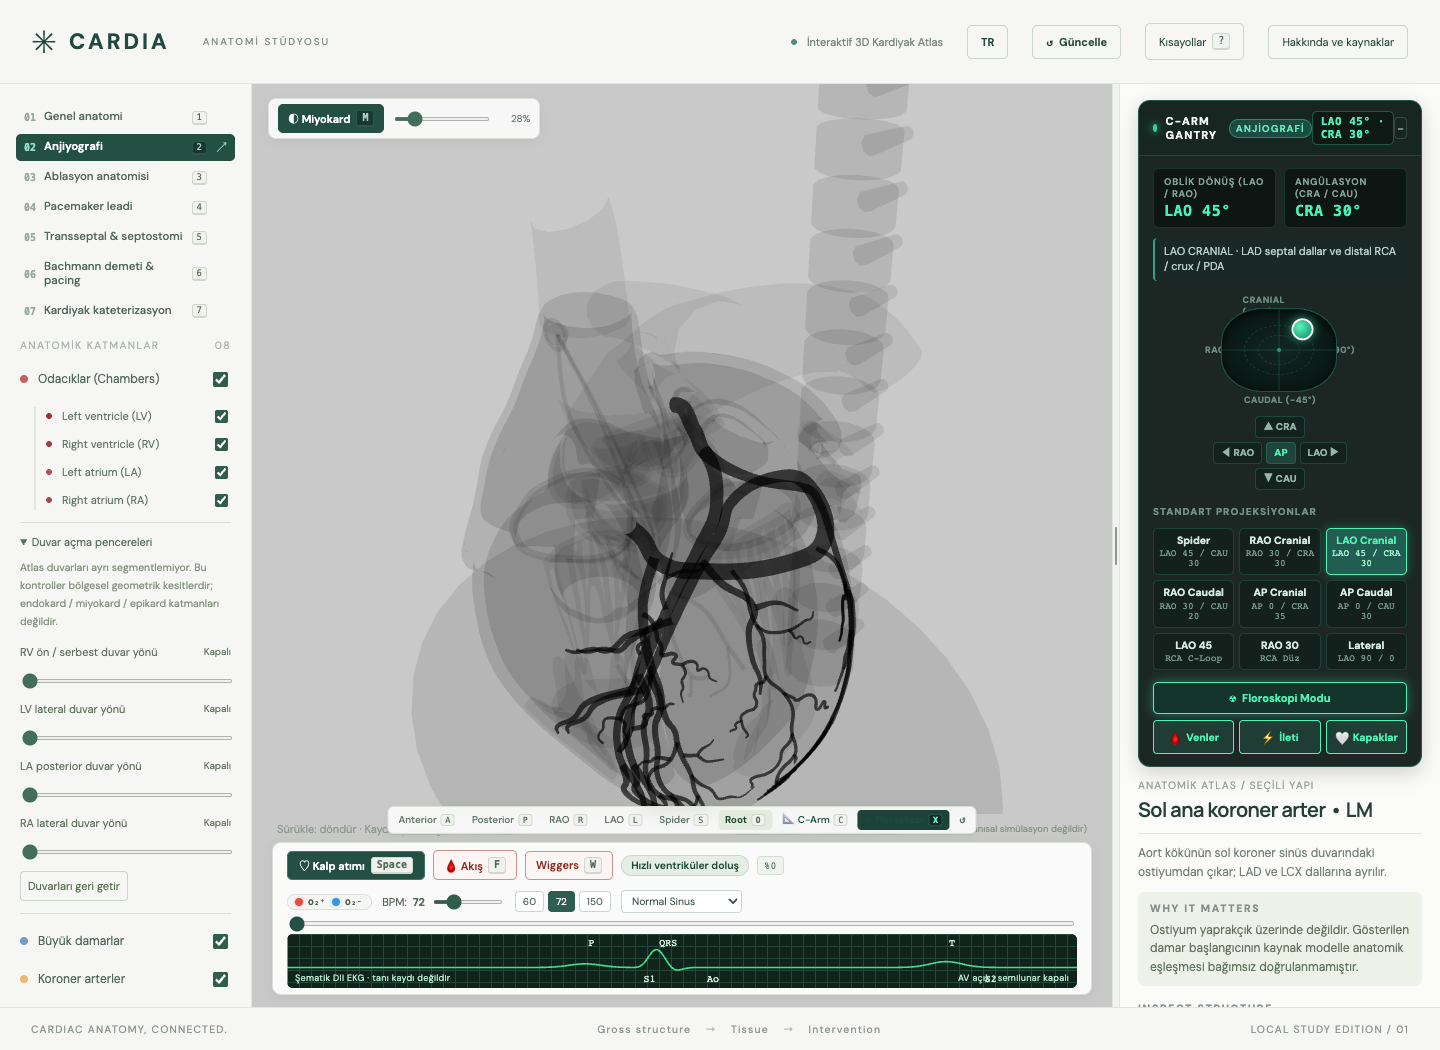
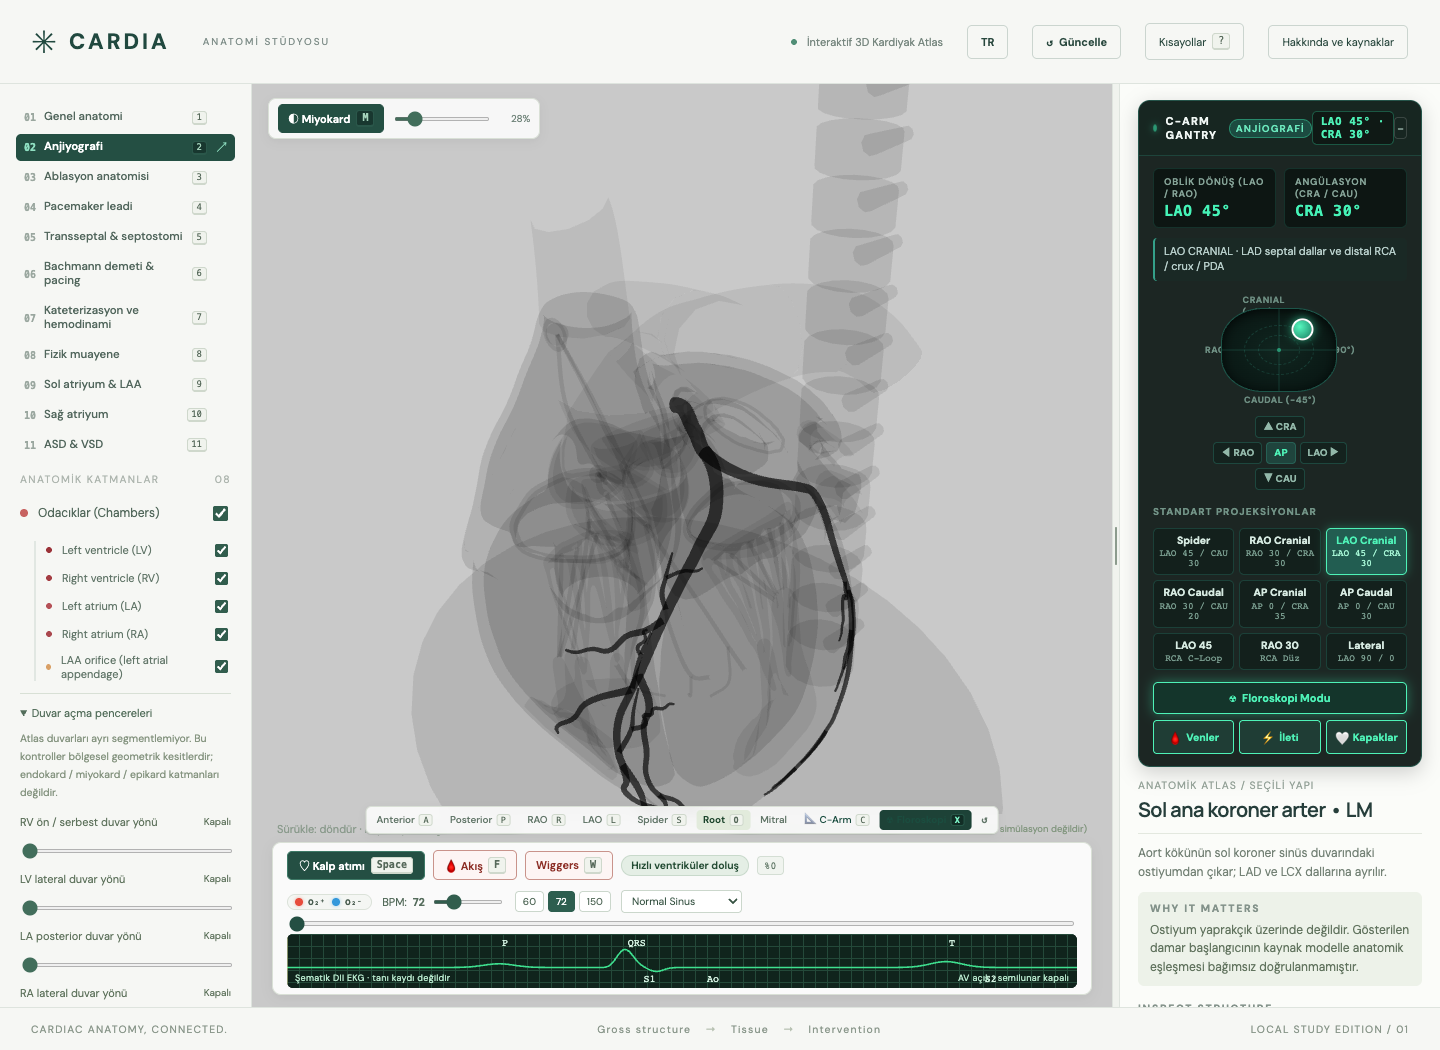
fix: measure the coronary sinus ostium on the paraseptal RA wall for the Koch triangle
The atlas coronary sinus ends in the AV groove on the tricuspid hinge, so the
Koch base sat on the annulus with a zero-width septal isthmus. Add
coronarySinusOstium (mesh-utils): the RA endocardial point on the atrial side
of the tricuspid plane, one isthmus (~1 cm) from the hinge, nearest the sinus
termination and the interatrial wall at Koch height. The Koch base now runs
hinge, mouth, posterior lip; Todaro rises from the lip; a ring marks the mouth.

- scripts/test-cs-ostium.mjs synthetic-geometry unit test, wired into check/test
- research/KOCH_CS_OSTIUM.md: rule, measured result, RA double-contour note
  (double-walled atlas mesh, not a rendering defect)
- research screenshots refreshed by the browser suite

diff --git a/src/ep-landmarks.js b/src/ep-landmarks.js
@@ -1,5 +1,5 @@
 import * as THREE from 'three';
-import { sharedRim, nearestLoop, inferiorCavalOstium } from './mesh-utils.js';
+import { sharedRim, nearestLoop, inferiorCavalOstium, coronarySinusOstium } from './mesh-utils.js';
 
 /**
  * Procedural 3D Clinical Electrophysiology (EP) Landmarks and Ablation Targets.
@@ -72,10 +72,17 @@ export function createEPLandmarks(helpers) {
     const ivcLoop = nearestLoop(getMeshes('ivc')[0], ra);
     const ivcOs = ivcLoop ? ivcLoop.center.clone()
       : (inferiorCavalOstium(getMeshes('ra')[0]) || new THREE.Vector3(-1.05, -0.93, -0.39));
-    const csLoop = nearestLoop(getMeshes('cs')[0], ra);
-    const csOs = csLoop ? csLoop.center.clone() : (nearEndCentroid(meshVertices('cs'), ra) || new THREE.Vector3(-0.70, -0.41, -0.30));
-
     const tvRim = sharedRim(getMeshes('ra')[0], getMeshes('rv')[0]);
+    // The atlas sinus ends on the tricuspid hinge in the AV groove; the RA
+    // mouth is measured one septal isthmus up the paraseptal wall from it.
+    const csMouth = coronarySinusOstium({
+      raMesh: getMeshes('ra')[0], laMesh: getMeshes('la')[0], csMesh: getMeshes('cs')[0],
+      tvRim, towardVentricle: sourceCenter('rv'), avNode: av
+    });
+    const csLoop = csMouth ? null : nearestLoop(getMeshes('cs')[0], ra);
+    const csOs = csMouth ? csMouth.center.clone()
+      : csLoop ? csLoop.center.clone()
+      : (nearEndCentroid(meshVertices('cs'), ra) || new THREE.Vector3(-0.70, -0.41, -0.30));
     // Inferior tricuspid hinge: rim point nearest the IVC ostium.
     let tvInferior = new THREE.Vector3(-0.75, -0.75, 0.0);
     // Septal tricuspid hinge: rim point nearest the left heart (septal side).
@@ -180,10 +187,10 @@ export function createEPLandmarks(helpers) {
       hingeArc[hingeArc.length - 1] = apexPt.clone();
       baseAnterior = hingeArc[0].clone();
     }
-    // Posterior base corner: CS-ostium rim point farthest from the tricuspid
-    // annulus (the lip the Eustachian ridge / Todaro rises from).
+    // Posterior base corner: the mouth's posterior lip, farthest from the
+    // tricuspid annulus (where the Eustachian ridge / Todaro rises).
     const csRim = csLoop ? csLoop.pts : [csOs.clone()];
-    const basePosterior = csRim.reduce((best, v) => {
+    const basePosterior = csMouth ? csMouth.posteriorLip.clone() : csRim.reduce((best, v) => {
       const d = Math.min(...(tvRim || [septalHinge]).map(r => r.distanceTo(v)));
       return d > best.d ? { v, d } : best;
     }, { v: csOs.clone(), d: -1 }).v.clone();
@@ -203,6 +210,11 @@ export function createEPLandmarks(helpers) {
     kochGroup.add(tag(new THREE.Mesh(new THREE.TubeGeometry(todaroCurve, 32, 0.017, 8, false), matTodaro), 'koch-todaro', 'Tendon of Todaro'));
     kochGroup.add(tag(new THREE.Mesh(new THREE.TubeGeometry(hingeCurve, 40, 0.015, 8, false), matHinge), 'tricuspid-septal', 'Septal tricuspid hinge (Koch side)'));
     kochGroup.add(tag(new THREE.Mesh(new THREE.TubeGeometry(baseCurve, 20, 0.014, 8, false), matBase), 'koch-base', 'CS ostium / inferior isthmus (Koch base)'));
+    // The mouth itself: a ring on the wall, facing the cavity.
+    const csRing = new THREE.Mesh(new THREE.TorusGeometry(csMouth ? csMouth.radius : 0.13, 0.012, 8, 32), matBase);
+    csRing.position.copy(lift(csOs));
+    csRing.quaternion.setFromUnitVectors(new THREE.Vector3(0, 0, 1), ra.clone().sub(csOs).normalize());
+    kochGroup.add(tag(csRing, 'koch-base', 'Coronary sinus ostium (measured)'));
 
     // Translucent triangle fill: fan from the apex over hinge + base + Todaro.
     const outline = [

diff --git a/src/mesh-utils.js b/src/mesh-utils.js
@@ -426,3 +426,51 @@ export function inferiorCavalOstium(raMesh) {
   if (floor.length < 10) return null;
   return centroid(floor).lerp(center, 0.1);
 }
+
+function worldVertices(mesh, step = 1) {
+  mesh.updateWorldMatrix(true, false);
+  const p = mesh.geometry.attributes.position;
+  const out = [];
+  for (let i = 0; i < p.count; i += step) out.push(new THREE.Vector3().fromBufferAttribute(p, i).applyMatrix4(mesh.matrixWorld));
+  return out;
+}
+
+/**
+ * Coronary sinus ostium measured on the right atrial endocardium. The atlas
+ * coronary sinus ends in the atrioventricular groove on the tricuspid hinge
+ * and has no intra-atrial mouth, so the orifice is taken as the RA wall point
+ * on the atrial side of the tricuspid plane, one septal isthmus (`isthmus`,
+ * about 1 cm) from the hinge, nearest the sinus termination and the
+ * interatrial wall, at Koch-triangle height (`height`) below the AV node.
+ * Returns the mouth centre, its hinge point, the posterior lip (Eustachian /
+ * Thebesian commissure side) and the sinus termination.
+ */
+export function coronarySinusOstium({ raMesh, laMesh, csMesh, tvRim, towardVentricle, avNode, isthmus = 0.3, height = 0.5 }) {
+  if (!raMesh || !csMesh || !tvRim || tvRim.length < 8 || !towardVentricle) return null;
+  const ra = worldVertices(raMesh);
+  if (ra.length < 50) return null;
+  const raCenter = centroid(ra);
+  const sinusEnd = nearestLoop(csMesh, raCenter)?.center;
+  if (!sinusEnd) return null;
+  const frame = annulusFrame(tvRim, towardVentricle);
+  const la = laMesh ? worldVertices(laMesh, 4) : [];
+  const rim = tvRim.filter((_, i) => i % 2 === 0);
+  let best = null, bestCost = Infinity;
+  for (const p of ra) {
+    if (p.distanceTo(sinusEnd) > isthmus * 2) continue;
+    if (p.clone().sub(frame.center).dot(frame.normal) > -0.05) continue;
+    let dRim = Infinity;
+    for (const r of rim) dRim = Math.min(dRim, r.distanceTo(p));
+    let dLa = 0;
+    if (la.length) { dLa = Infinity; for (const q of la) dLa = Math.min(dLa, q.distanceTo(p)); }
+    const dAv = avNode ? p.distanceTo(avNode) : height;
+    const cost = 4 * (dRim - isthmus) ** 2 + 3 * (dAv - height) ** 2 + 1.5 * p.distanceToSquared(sinusEnd) + dLa * dLa;
+    if (cost < bestCost) { bestCost = cost; best = p; }
+  }
+  if (!best) return null;
+  const hinge = tvRim.reduce((a, b) => b.distanceTo(best) < a.distanceTo(best) ? b : a);
+  const lipTarget = best.clone().add(best.clone().sub(hinge).setLength(isthmus * .5));
+  let lip = best, lipD = Infinity;
+  for (const p of ra) { const d = p.distanceToSquared(lipTarget); if (d < lipD) { lipD = d; lip = p; } }
+  return { center: best.clone(), hinge: hinge.clone(), posteriorLip: lip.clone(), sinusEnd: sinusEnd.clone(), radius: isthmus * .45 };
+}

diff --git a/research/KOCH_CS_OSTIUM.md b/research/KOCH_CS_OSTIUM.md
@@ -1,0 +1,37 @@
+# Coronary sinus ostium and triangle of Koch: measured placement
+
+Date: 2026-09-28. Scope: the EP landmark overlay in `src/ep-landmarks.js` (ablation lesson, step 2) and the helper `coronarySinusOstium` in `src/mesh-utils.js`. Educational schematic on the intact atlas; not a patient model.
+
+## Problem
+
+The atlas coronary sinus mesh ends in the atrioventricular groove exactly on the tricuspid hinge (its proximal open loop lies 0.03 atlas units from the RA/RV orifice rim) and has no intra-atrial mouth. The Koch base was anchored to that open loop, so the base sat on the hinge line: the septal isthmus had zero width, the triangle degenerated into a strip along the annulus, and the tendon of Todaro rose from a point on the valve ring.
+
+## Rule now used
+
+Atlas axes: +x patient left, +y superior, +z anterior; 1 unit is about 3.6 cm (tricuspid annulus diameter about 1 unit).
+
+The ostium is the right atrial endocardial vertex that
+- lies on the atrial side of the tricuspid annulus plane (depth below the plane at least 0.05 units),
+- is one septal isthmus from the hinge (target 0.3 units, about 1 cm),
+- is closest to the sinus termination and to the interatrial wall (paraseptal),
+- is about Koch-triangle height (target 0.5 units) from the compact AV node.
+
+These are combined as a weighted least-squares cost over RA vertices within two isthmus widths of the sinus termination. The posterior lip (Eustachian/Thebesian commissure side, where Todaro rises) is the wall vertex half an isthmus beyond the mouth, away from the hinge. A ring of radius 0.135 units (about 5 mm) marks the mouth, facing the cavity.
+
+Measured result on the shipped atlas: mouth centre near (-0.61, -0.09, -0.50), 0.27 units from the hinge, 0.16 units from the LA wall, 0.66 units from the AV node (about 2.3 cm, upper end of the reported 1.5 to 2.5 cm triangle height), 0.49 units below and anterior to the oval fossa. The Koch base now runs hinge point, mouth, posterior lip; Todaro runs from the lip to the apex; the slow-pathway target stays on the isthmus between hinge and mouth.
+
+## Consumers left unchanged
+
+`src/septal-defects.js` (unroofed coronary sinus site) and the CS catheter and lead routes in `src/pacemaker-leads.js` and `src/transseptal.js` still follow the sinus mesh centreline, which reaches the annulus. They can adopt the measured mouth later if the entry point is to be shown in the atrium.
+
+## Sources
+
+Same as the ablation lesson: Tretter et al., Europace 2022;24:455–463 (triangle borders, inferior pyramidal space, septal isthmus) and Ho et al. 2003 (AV node at the apex, membranous septum). Isthmus width and triangle height are typical adult ranges from those texts, not patient measurements.
+
+## Verification
+
+`scripts/test-cs-ostium.mjs` (synthetic sphere atrium, planar LA wall, seamless open sinus tube on the rim): the mouth lies on the wall, on the atrial side, 0.2 to 0.4 units from the hinge, paraseptal; the sinus termination is the rim-side loop; the lip lies beyond the mouth on the wall; missing atrium or degenerate rim yields null. `npm run check`, `npm test` and `npm run build` pass. Headless Chrome renders (RAO 55 CAU 10, RAO 85) inspected with tissue faded: apex on the superior septal annulus, mouth posteroinferior and paraseptal, base one isthmus wide.
+
+## Note on the isolated right atrium view
+
+The "double contour" seen at the RA cut edges in mode 10 is not a rendering defect. Rays through the RA mesh cross the surface four times in most places and the mesh is a single connected component, so the atlas atrium is modelled with wall thickness (outer and inner surface joined at the rims). The second line is the inner surface at the cut edge. Normals are smooth (no duplicated-vertex seams with mismatched normals), the material is opaque with depth write, and front-face-only rendering gives the same image.
